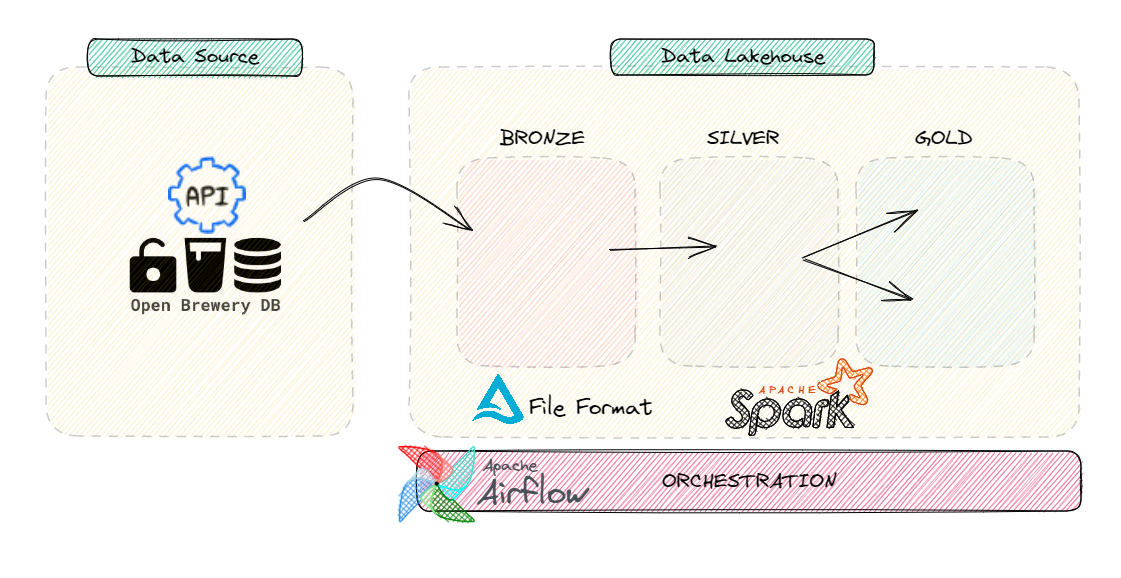
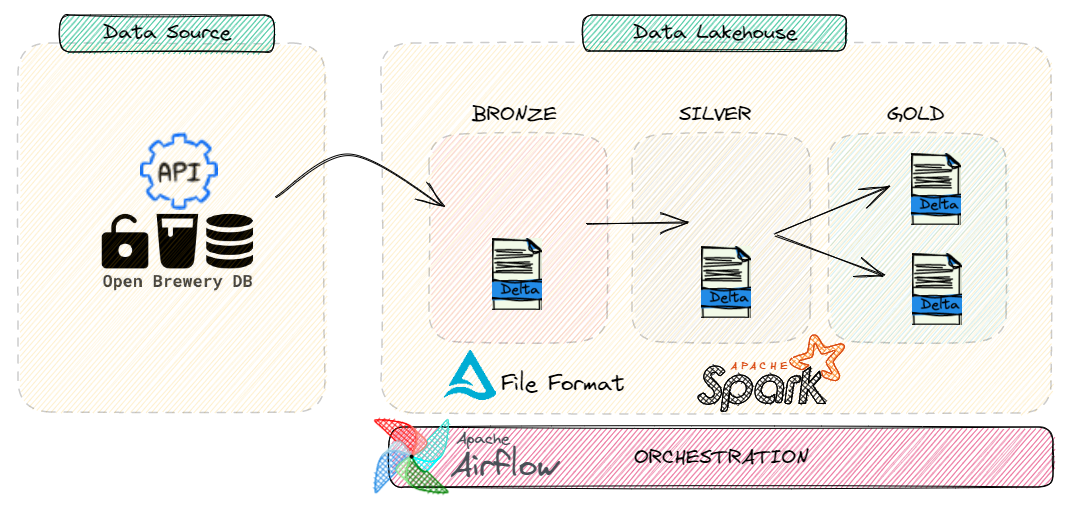
udpated readme.md

Changed region(s): [[0.0, 0.0, 0.9851, 0.9448]]

diff --git a/README.md b/README.md
@@ -1,3 +1,38 @@
-# pipeline-lakehouse-brewery
-Consume data from an API, and persist into a data lake architecture with three layers (bronze, silver, gold)
+# Consumindo API e persistindo num Data Lakehouse
+Criação de um Data Lakehouse utilizando arquitetura [Medallion Architecture](https://www.databricks.com/glossary/medallion-architecture)
+
+Basicamente consumindo uma API, realizando tratamento dos dados e entregando tabelas agregadas.
+
+
+## Arquitetura do fluxo
 ![Arquitetura Lakehouse](img/img_architetura.png)
+
+## Data Souce
+Para consumir uma API foi utilizado o [Projeto Open Brewery DB](https://www.openbrewerydb.org/) que são dados abertos de cervejarias.
+
+## Data Lakehouse
+Dividido nas seguintes camadas:
+
+- ***Bronze*** - dados sem nenhuma transformação e inseridos metadado
+- ***Silver*** - dados com alguma transformação e inseridos metadado
+- ***Gold*** - dados agregados conforme regra de négocio
+
+Para essa solução foi utilizado as seguintes ferramentas:
+- ***Apache Spark*** - engine de processamento 
+- ***Apache Airflow*** - orquestração das DAGs
+- ***Delta Table*** - camada de armazenamento otimizada
+### Check directory
+```bash
+cd /root/lakehouse
+```
+
+- item 1
+* item 3
+
+***
+
+## <a id="anchortext" />Header text
+<p>
+
+To go to a section on the same page:
+[text](#anchortext)
